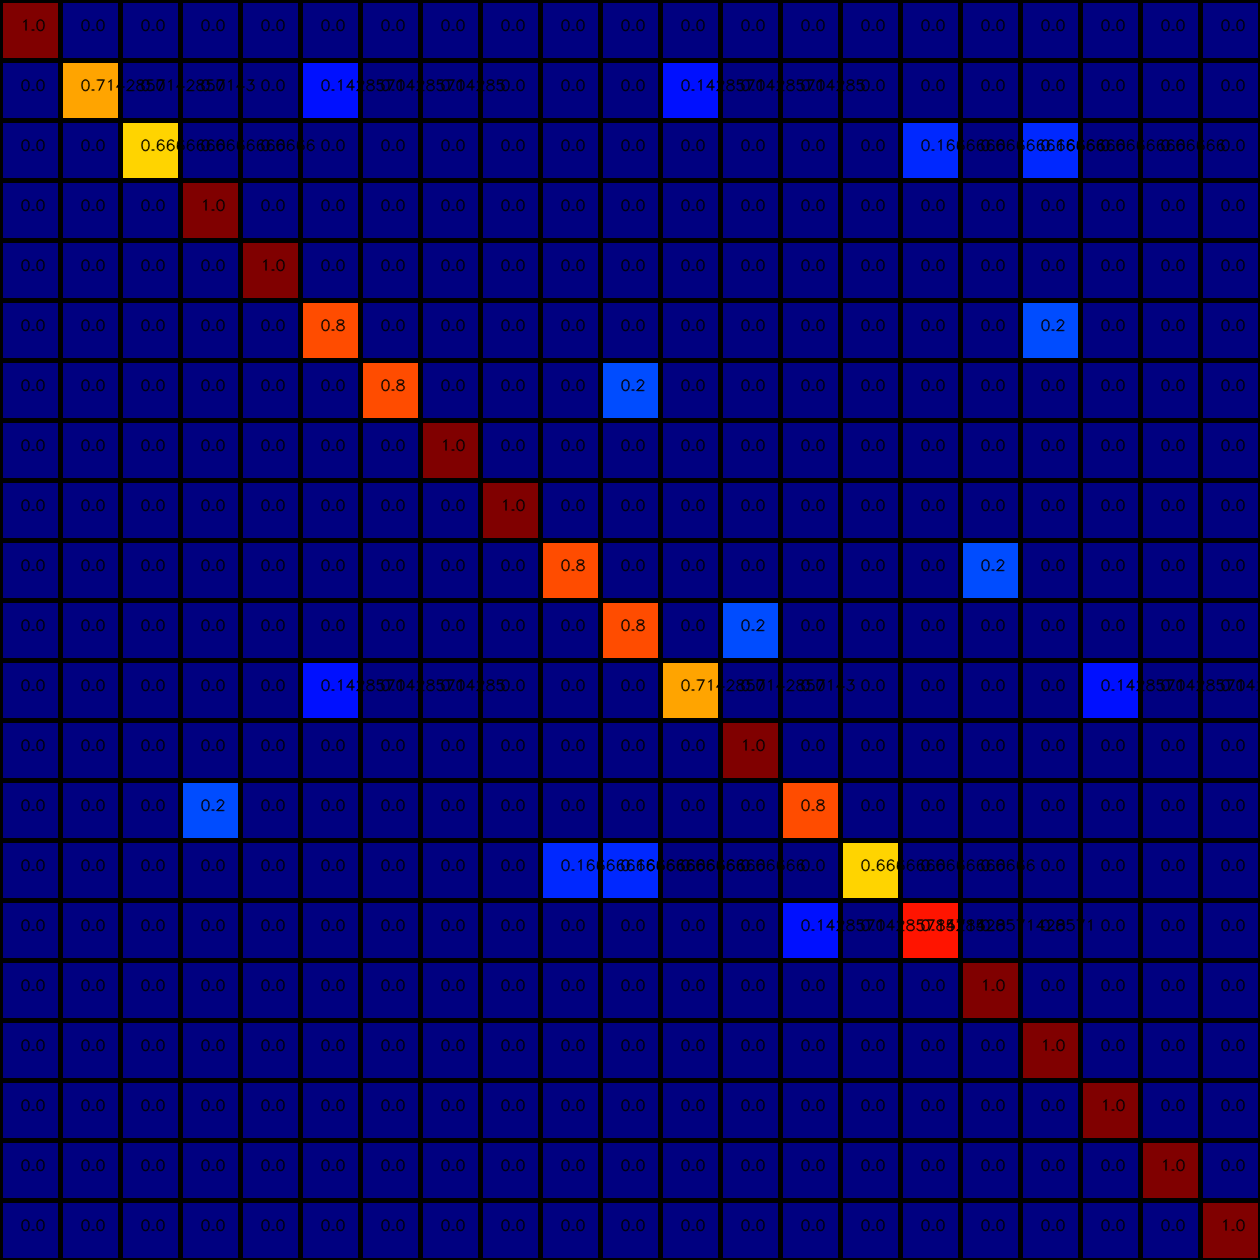
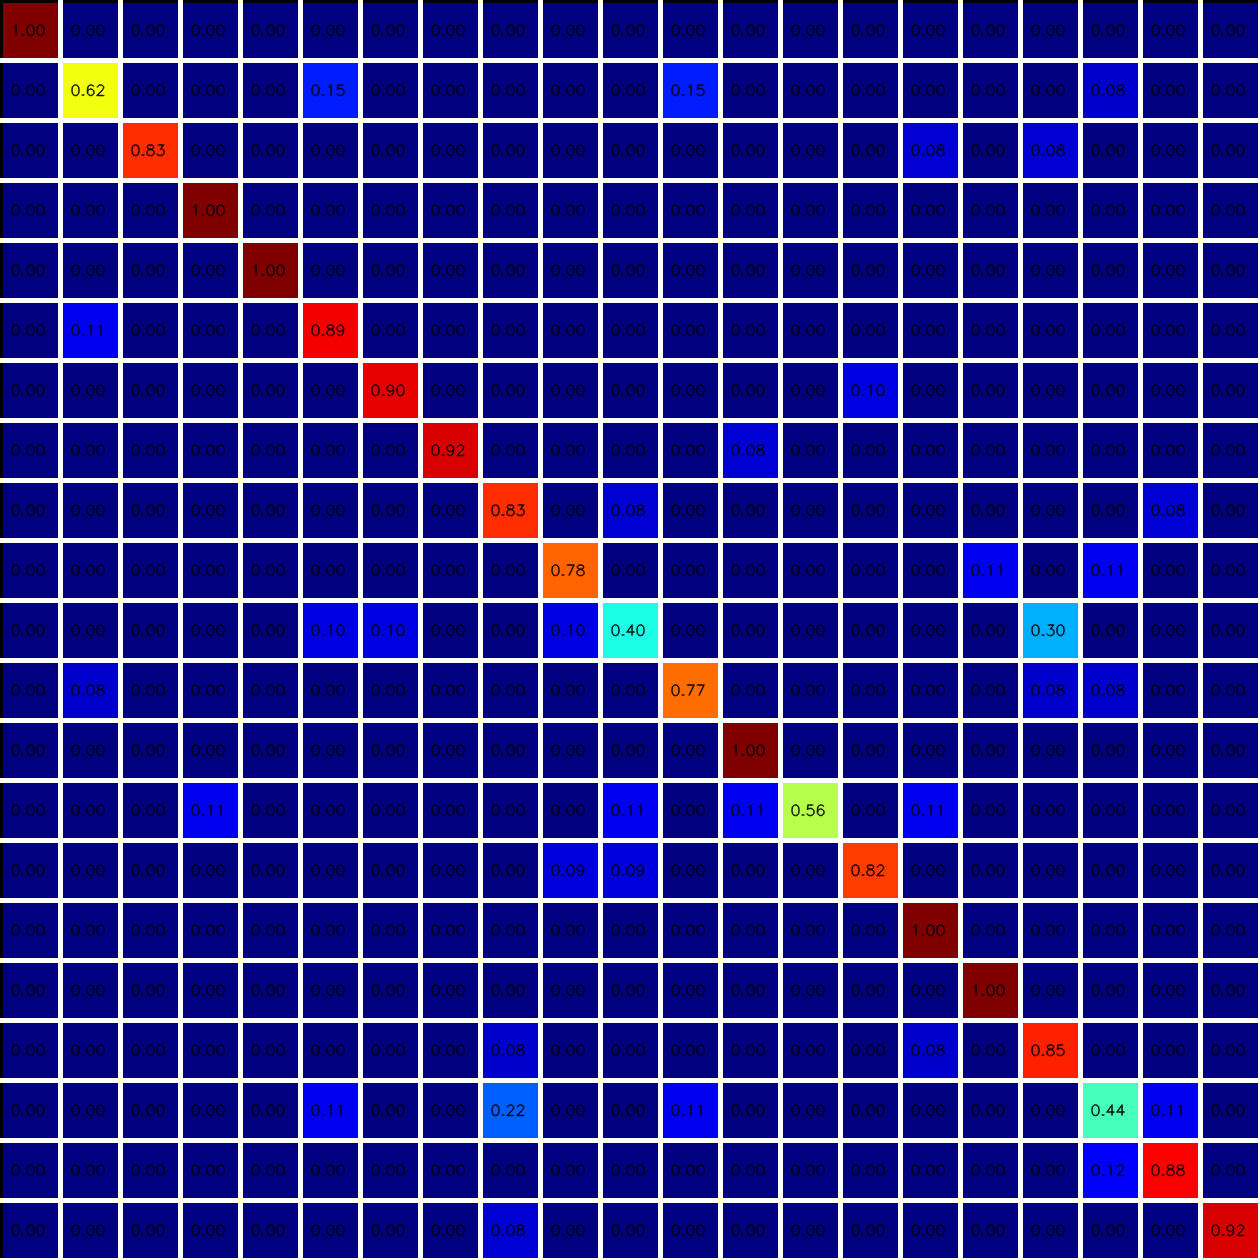
split ratio=0.4

diff --git a/utils/confusion_matrix.py b/utils/confusion_matrix.py
@@ -32,10 +32,10 @@ def create_matrix(labels,predictions):
 	cv2.line(image, (0,0), ((num_classes)*60,0), (0,0,0),3)
 	cv2.line(image, (0,0), (0,(num_classes)*60), (0,0,0),3)
 	for i in range(num_classes):
-		cv2.line(image, (0,(i+1)*60), ((num_classes)*60,(i+1)*60), (255,255,255),3)
-		cv2.line(image, ((i+1)*60,0), ((i+1)*60,(num_classes)*60), (255,255,255),3)
+		cv2.line(image, (0,(i+1)*60), ((num_classes)*60,(i+1)*60), (0,0,0),3)
+		cv2.line(image, ((i+1)*60,0), ((i+1)*60,(num_classes)*60), (0,0,0),3)
 		for j in range(num_classes):
-			cv2.putText(image,'{:.2f}'.format(matrix[i][j]/float(num_samples[i])),(j*60+10,i*60+35),font,0.5,(0,0,0),1,cv2.LINE_AA)
+			cv2.putText(image,'{:.2f}'.format(matrix[i][j]/float(num_samples[i])),(j*60+10,i*60+35),font,0.5,(255,255,255),1,cv2.LINE_AA)
 	cv2.imwrite("confusion_matrix.png",image)
 	return matrix
 

diff --git a/test.py b/test.py
@@ -60,9 +60,7 @@ def _main(args):
 		pred = svm.predict(test_data[i])
 		probs = svm.predict_proba(test_data[i])
 		probs=probs.ravel()
-		print(probs)
 		probs = [b[0] for b in sorted(enumerate(probs),key=lambda i:i[1],reverse=True)]
-		print(probs)
 		if labels[i] in probs[:1]:
 			r1+=1
 		if labels[i] in probs[:2]:
